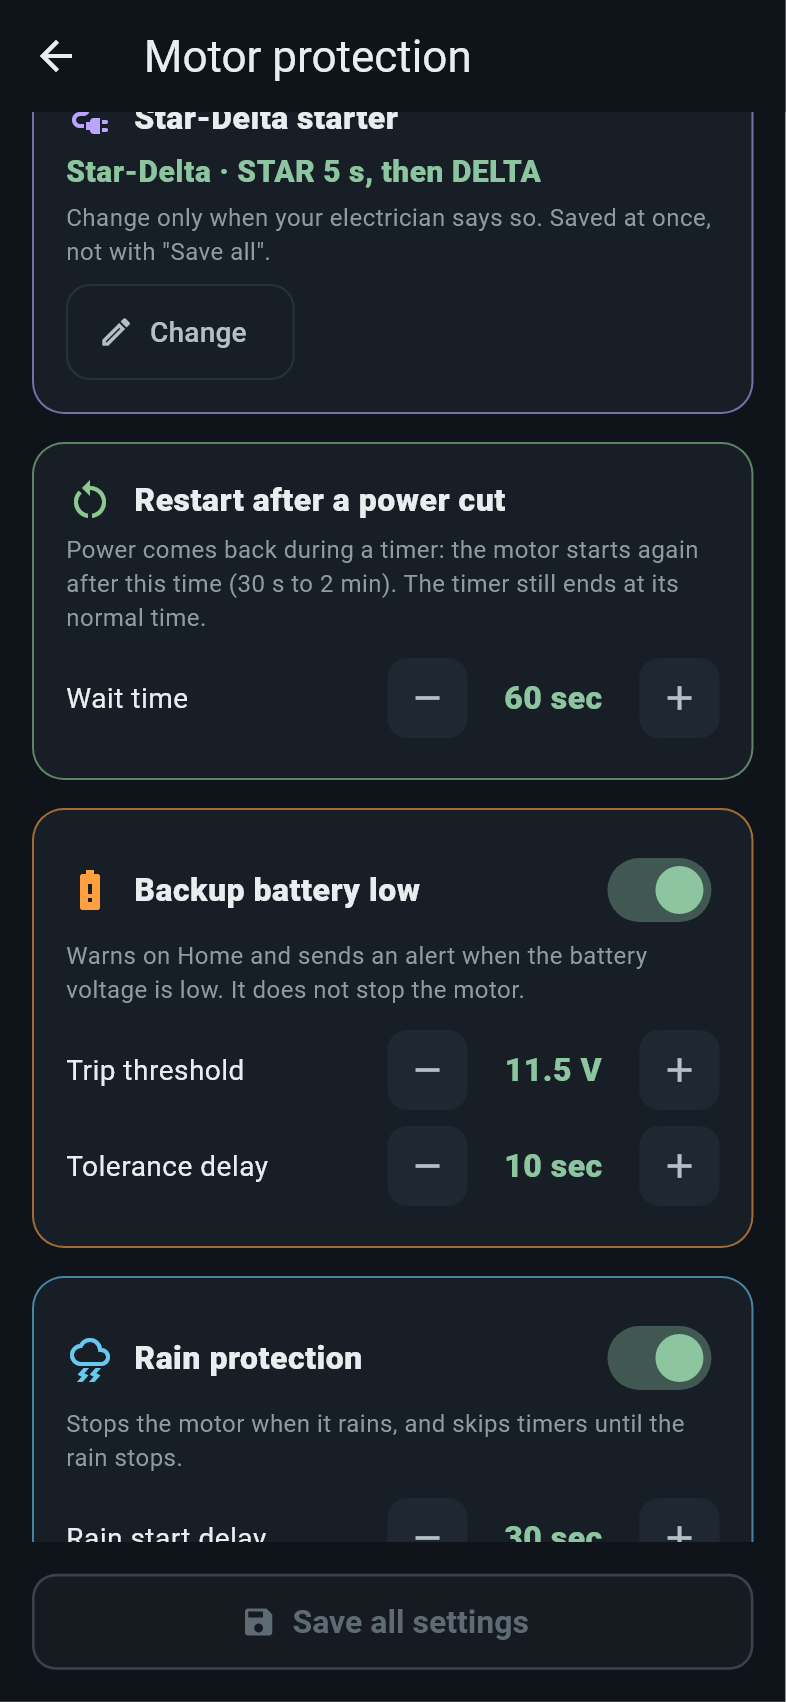
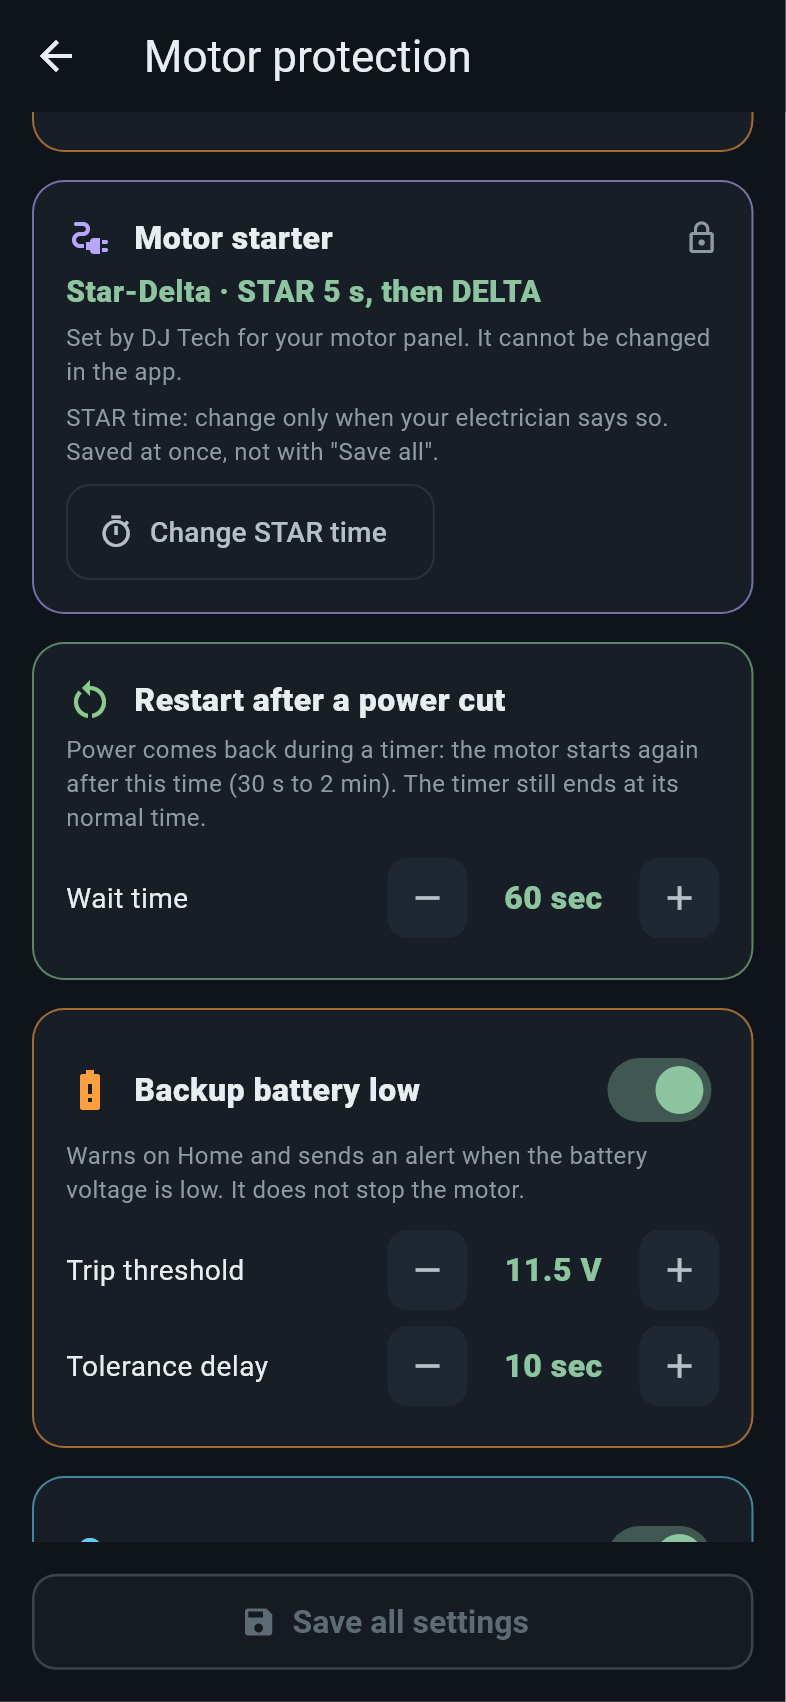
Add files via upload

diff --git a/irrigation-manual/index.html b/irrigation-manual/index.html
@@ -470,18 +470,25 @@
         <tr><td><b>Direct start (DOL)</b></td><td>Below 5 HP</td><td>The motor starts at once. Home shows no STAR / DELTA row.</td></tr>
         <tr><td><b>Star-Delta</b></td><td>5 HP and above</td><td>Starts in <b>STAR</b> for a few seconds (soft start), then <b>DELTA</b> (full power). Home shows <b>STAR · 5 s</b>, then <b>DELTA · RUNNING</b>.</td></tr>
       </table>
-      <p>You see your starter in <b>Settings → Motor protection</b>. If you change the motor or the panel, only the <b>Admin</b> can change it, with two checks:</p>
+      <p>You see your starter in <b>Settings → Motor protection → Motor starter</b>. It has a 🔒 lock.</p>
+      <div class="tip"><b>The starter is fixed.</b> No one can switch DOL ↔ Star-Delta in the app. A wrong starter can damage the motor. If you change the motor or the panel, call <b>DJ Tech service</b>.</div>
+    </div>
+    <figure><img class="shot" src="img/en/ac3/star_delta_dol.png" alt="Motor starter card, DOL"><figcaption>DOL box: locked</figcaption></figure>
+    <figure><img class="shot" src="img/en/ac3/star_delta.png" alt="Motor starter card, Star-Delta"><figcaption>Star-Delta box</figcaption></figure>
+  </div>
+  <h3>Star-Delta only: change the STAR time</h3>
+  <div class="row">
+    <div>
+      <p>On a Star-Delta box, the <b>Admin</b> can change only the <b>STAR time</b>, with two checks:</p>
       <ol class="steps">
-        <li><b>Settings → Motor protection → Star-Delta starter</b> → tap <b class="btn">Change</b>.</li>
-        <li>Choose <b>Star-Delta starter</b> or <b>Direct (DOL)</b>.</li>
-        <li>Set the <b>STAR time</b> with − and + (allowed: <b>2 to 15 seconds</b>). Tap <b class="btn">Next</b>.</li>
+        <li><b>Settings → Motor protection → Motor starter</b> → tap <b class="btn">Change STAR time</b>.</li>
+        <li>Set the time with − and + (allowed: <b>2 to 15 seconds</b>). Tap <b class="btn">Next</b>.</li>
         <li>The app shows <b>Now: …</b> and <b>New: …</b>. Check it and tap <b class="btn">Change</b>.</li>
       </ol>
-      <p>It is saved at once (not with "Save all settings") and written in the Logs.</p>
-      <div class="warn">Change it only when your electrician says so. A wrong starter setting can damage the motor.</div>
+      <p>It is saved at once (not with "Save all settings") and written in the Logs. A DOL box has no STAR time, so there is no button.</p>
+      <div class="warn">Change it only when your electrician says so. A wrong STAR time can damage the motor.</div>
     </div>
-    <figure><img class="shot" src="img/en/ac3/star_delta.png" alt="Star-Delta card"><figcaption>Star-Delta card</figcaption></figure>
-    <figure><img class="shot" src="img/en/ac3/star_delta_change.png" alt="Change Star-Delta"><figcaption>Change: step 1</figcaption></figure>
+    <figure><img class="shot" src="img/en/ac3/star_delta_change.png" alt="Change STAR time"><figcaption>Change STAR time</figcaption></figure>
   </div>
 </section>
 
@@ -910,18 +917,25 @@
         <tr><td><b>நேரடி ஸ்டார்ட் (DOL)</b></td><td>5 HP-க்குக் கீழ்</td><td>மோட்டார் உடனே தொடங்கும். முகப்பில் ஸ்டார் / டெல்டா வரி இருக்காது.</td></tr>
         <tr><td><b>ஸ்டார்-டெல்டா</b></td><td>5 HP மற்றும் மேல்</td><td>சில வினாடிகள் <b>ஸ்டார்</b>-இல் (மென்மையான தொடக்கம்), பிறகு <b>டெல்டா</b> (முழு சக்தி). முகப்பில் <b>ஸ்டார் · 5 வி</b>, பிறகு <b>டெல்டா · இயங்குகிறது</b>.</td></tr>
       </table>
-      <p>உங்கள் ஸ்டார்ட்டரை <b>அமைப்புகள் → மோட்டார் பாதுகாப்பு</b>-இல் பார்க்கலாம். மோட்டார் அல்லது பேனலை மாற்றினால், <b>நிர்வாகி</b> மட்டுமே மாற்ற முடியும், இரண்டு சரிபார்ப்புகளுடன்:</p>
+      <p>உங்கள் ஸ்டார்ட்டரை <b>அமைப்புகள் → மோட்டார் பாதுகாப்பு → மோட்டார் ஸ்டார்ட்டர்</b>-இல் பார்க்கலாம். அதில் 🔒 பூட்டு இருக்கும்.</p>
+      <div class="tip"><b>ஸ்டார்ட்டர் நிலையானது.</b> ஆப்பில் யாரும் DOL ↔ ஸ்டார்-டெல்டா மாற்ற முடியாது. தவறான ஸ்டார்ட்டர் மோட்டாரைச் சேதப்படுத்தலாம். மோட்டார் அல்லது பேனலை மாற்றினால், <b>DJ Tech சேவையை</b> அழைக்கவும்.</div>
+    </div>
+    <figure><img class="shot" src="img/ta/ac3/star_delta_dol.png" alt="மோட்டார் ஸ்டார்ட்டர் அட்டை, DOL"><figcaption>DOL பெட்டி: பூட்டப்பட்டது</figcaption></figure>
+    <figure><img class="shot" src="img/ta/ac3/star_delta.png" alt="மோட்டார் ஸ்டார்ட்டர் அட்டை, ஸ்டார்-டெல்டா"><figcaption>ஸ்டார்-டெல்டா பெட்டி</figcaption></figure>
+  </div>
+  <h3>ஸ்டார்-டெல்டா மட்டும்: ஸ்டார் நேரத்தை மாற்றுதல்</h3>
+  <div class="row">
+    <div>
+      <p>ஸ்டார்-டெல்டா பெட்டியில், <b>நிர்வாகி</b> <b>ஸ்டார் நேரத்தை</b> மட்டுமே மாற்ற முடியும், இரண்டு சரிபார்ப்புகளுடன்:</p>
       <ol class="steps">
-        <li><b>அமைப்புகள் → மோட்டார் பாதுகாப்பு → ஸ்டார்-டெல்டா ஸ்டார்ட்டர்</b> → <b class="btn">மாற்று</b> தட்டவும்.</li>
-        <li><b>ஸ்டார்-டெல்டா ஸ்டார்ட்டர்</b> அல்லது <b>நேரடி ஸ்டார்ட் (DOL)</b> தேர்வு செய்யவும்.</li>
-        <li>− மற்றும் + மூலம் <b>ஸ்டார் நேரம்</b> அமைக்கவும் (அனுமதி: <b>2 முதல் 15 வினாடி</b>). <b class="btn">அடுத்து</b> தட்டவும்.</li>
+        <li><b>அமைப்புகள் → மோட்டார் பாதுகாப்பு → மோட்டார் ஸ்டார்ட்டர்</b> → <b class="btn">ஸ்டார் நேரத்தை மாற்று</b> தட்டவும்.</li>
+        <li>− மற்றும் + மூலம் நேரம் அமைக்கவும் (அனுமதி: <b>2 முதல் 15 வினாடி</b>). <b class="btn">அடுத்து</b> தட்டவும்.</li>
         <li>ஆப் <b>இப்போது: …</b>, <b>புதியது: …</b> என்று காட்டும். சரிபார்த்து <b class="btn">மாற்று</b> தட்டவும்.</li>
       </ol>
-      <p>இது உடனே சேமிக்கப்படும் ("அனைத்தையும் சேமி" உடன் அல்ல), பதிவுகளில் எழுதப்படும்.</p>
-      <div class="warn">உங்கள் எலக்ட்ரீஷியன் சொன்னால் மட்டும் மாற்றவும். தவறான ஸ்டார்ட்டர் அமைப்பு மோட்டாரைச் சேதப்படுத்தலாம்.</div>
+      <p>இது உடனே சேமிக்கப்படும் ("அனைத்தையும் சேமி" உடன் அல்ல), பதிவுகளில் எழுதப்படும். DOL பெட்டியில் ஸ்டார் நேரம் இல்லை, அதனால் பொத்தானும் இல்லை.</p>
+      <div class="warn">உங்கள் எலக்ட்ரீஷியன் சொன்னால் மட்டும் மாற்றவும். தவறான ஸ்டார் நேரம் மோட்டாரைச் சேதப்படுத்தலாம்.</div>
     </div>
-    <figure><img class="shot" src="img/ta/ac3/star_delta.png" alt="ஸ்டார்-டெல்டா அட்டை"><figcaption>ஸ்டார்-டெல்டா அட்டை</figcaption></figure>
-    <figure><img class="shot" src="img/ta/ac3/star_delta_change.png" alt="ஸ்டார்-டெல்டா மாற்றம்"><figcaption>மாற்றம்: படி 1</figcaption></figure>
+    <figure><img class="shot" src="img/ta/ac3/star_delta_change.png" alt="ஸ்டார் நேரத்தை மாற்று"><figcaption>ஸ்டார் நேரத்தை மாற்று</figcaption></figure>
   </div>
 </section>
 
